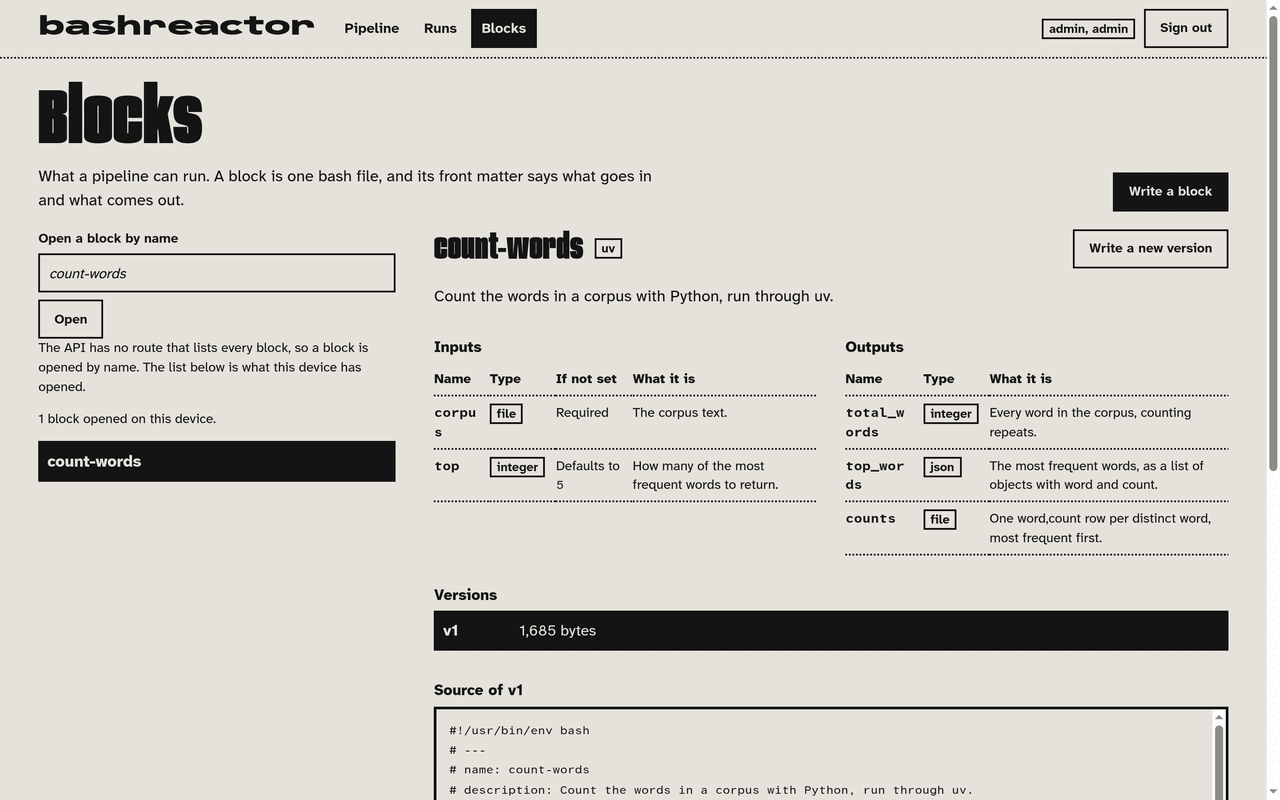
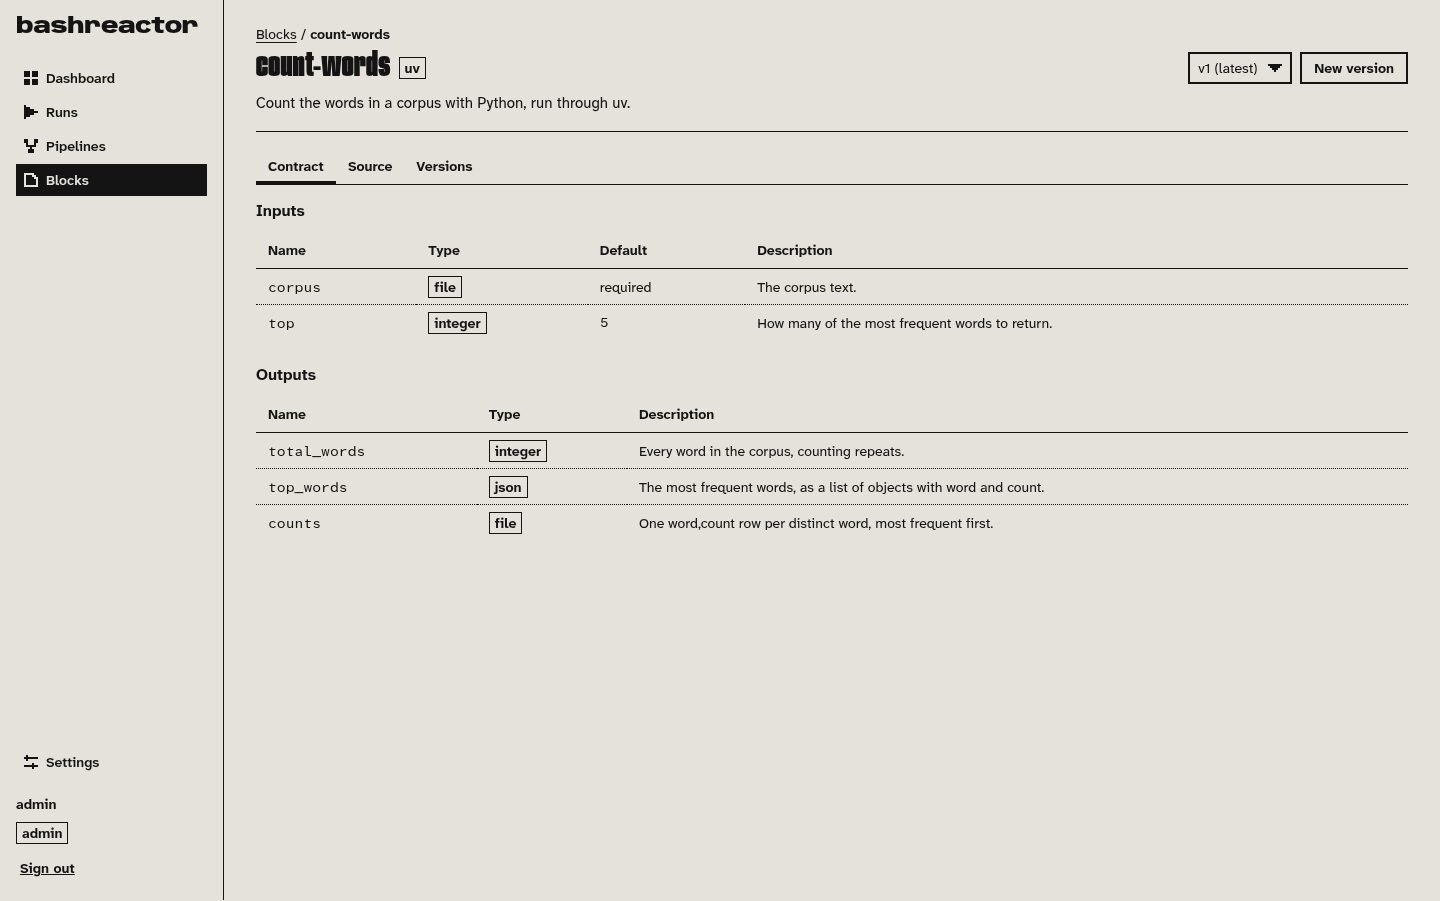
docs: the walk through the new UI, photographed

diff --git a/README.md b/README.md
@@ -28,20 +28,13 @@ same scopes.
 
 ## What it looks like
 
-These are screenshots of the web UI, taken in Chromium against a local server running this repo. The
-pipeline is [`docs/examples/word-report.yaml`](docs/examples/word-report.yaml), the worked example
-[`docs/SPEC.md`](docs/SPEC.md) section 7 is written against, and the two finished runs are the two
-scenarios [`docs/examples/README.md`](docs/examples/README.md) fixes expected results for: the
-defaults, and `lines` 50. That file says a correct run returns a 163 byte report and `total_words`
-1300, [`examples/demo.sh`](examples/demo.sh) checks those numbers on every run, and
-`examples/demo.test.ts` runs that script as part of `bun run check`. So the figures on these screens
-are the ones the tests expect. The run still in flight in the Runs list is the one exception, and its
-caption says so.
-
-Three of them were recaptured at `ee5453c`, after BASHR-13 gave every step status its own stamp
-(`dac64fe`): the two shots of the failed run and the full-page one in *Reading a log*. The rest are
-from the build just before it, and none of them shows a step status that the fix changed:
-`04-run-succeeded.png` is all-succeeded, and the two Runs lists stamp the run, not its steps.
+These are screenshots of the web UI, taken in Chromium against a local server running this repo at
+1440 × 900 and 390 × 844. The data is `apps/web/scripts/seed.ts`: the worked example
+[`docs/examples/word-report.yaml`](docs/examples/word-report.yaml), the pipeline
+[`docs/SPEC.md`](docs/SPEC.md) section 7 is written against, plus the small pipelines the seed adds so
+the lists have every state a screen has to draw. It starts the default run, a run with `lines` 50 that
+fails, one whose `generate` step spends a retry, one cancelled half way, one waiting for its next
+attempt and one still running, so a picture of a live screen is a picture of a real engine working.
 
 ### The gate
 
@@ -54,145 +47,150 @@ agent token from `POST /v1/tokens`, and the scope on that token decides what the
 do. Nothing else is kept on the device, apart from the list of block names you have opened on the
 Blocks screen.
 
-### The entry page
+### Dashboard
 
-![The entry page signed in as admin: what the server reports about itself, and the three screens listed with what each one is for](docs/screenshots/01-entry.png)
+![The Dashboard signed in as admin: four count tiles, the activity chart with all four states in its legend, and the Running now and Failed tables above the disk meter](docs/screenshots/01-dashboard.png)
 
-Once the token is in, the entry page says what this server is and what you may do on it: the version
-and API base it reports, a health line reading `ok`, and whether this token can store pipelines,
-publish blocks and start runs. Below that are the three screens, each with the line that says what it
-is for. The Pipeline editor draws its graph from the YAML instead of keeping a second copy of it. Runs
-is where you watch a run and read its logs by byte offset, with cancel, retry and resume. Blocks is
-the library of bash files, whose front matter says what goes in and what comes out.
+Once the token is in, `/app` is the Dashboard, which replaced the entry page that used to list the
+screens. Four tiles count the window: running, succeeded, failed and cancelled, each a link to the
+Runs list with that filter. Running counts every run that is going now, whatever its age; the other
+three count runs created in the window. The window control says 24 h, 7 d or 30 d, and each is a local
+calendar span — the current local hour or day plus the ones before it, not a rolling duration.
 
-The same page at phone width, a 390 px viewport.
+Activity is one stacked bar per hour or day, with failed, cancelled, running and succeeded stacked from
+the baseline, and a legend that names all four states even when this window has none of one. Below it
+are the two tables that need someone: Running now, which has no Status column because every row is
+running, and Failed, with Retry on each row for a token that can write. Both stop at ten rows and link
+to the filtered list. The disk meter at the bottom is the same disk the Settings screen shows, and the
+alarm above it appears only when `GET /v1/disk` says `low`.
 
-![The entry page at phone width](docs/screenshots/09-mobile-entry.png)
+### Runs: the list, then one run
 
-## The three screens
+![The Runs screen with eight seeded runs, newest first, and the status, pipeline and window filters above them](docs/screenshots/03-runs-list.png)
 
-### Pipeline: write the YAML, run it
+`GET /v1/runs`, newest first: the run id, the pipeline it is a run of, its version, when it started,
+how long it took and how many steps succeeded. The filters — status, pipeline and window — live in the
+address, so a reload, a bookmark and the back button all agree with what is on screen. The subtitle
+states the design: a run is a directory, and this list is its `run.json`.
 
-![The Pipeline screen with an empty editor: New pipeline, Validate, Save version and Start a run above an empty graph pane, with the YAML pane beside it and a Problems panel under that](docs/screenshots/02-pipeline-editor.png)
+![A run still going: nightly-sync, its timeline with transform running, the live log reading 243 B, and Cancel offered instead of Retry](docs/screenshots/06-run-running.png)
 
-The editor holds one pipeline document, and it is the only place in the UI that writes YAML. A new
-document starts with `name`, `description` and an empty `steps:`, and the graph pane stays empty until
-there is a step. The legend under the graph says how the drawing reads: an output feeding an input is
-a wire, a `needs:` entry is a wire with no data on it, and an input port fed by a reference is marked
-differently from one set to a literal value. The buttons are the routes: `Validate` is
-`POST /v1/pipelines/validate`, `Save version` is `POST /v1/pipelines/:name/versions`, `Start a run` is
-`POST /v1/runs`. A stored document is opened by name, because the API has no route that lists every
-pipeline, and the screen says so.
+The same list leads to one run. This one is still going: its header says how long it has been running
+and offers Cancel; the timeline puts every step on a common clock, with `transform` in its dither
+because it is the running one; and the log pane is reading `transform` attempt 1, 243 bytes so far.
+There is no websocket and no callback: both screens poll. The list re-reads `GET /v1/runs` once a
+second while any run on it is `running`, and drops to one read every fifteen seconds (`IDLE_POLL_MS`)
+once none is, because a run started from the CLI or in another tab has to turn up without a reload; a
+run's own page re-reads `GET /v1/runs/:id` on the same beat (`POLL_MS` in
+`apps/web/src/client/run-shared.ts`) until the run is final. Neither reads while the tab is in another
+window, and both say so in the status line when a read fails rather than going quiet on you.
+
+#### The run that worked
+
+![Run detail for the succeeded word-report run: generate took 2 attempts, check, count and report are done, and the report output is 163 bytes](docs/screenshots/04-run-succeeded.png)
+
+`word-report` at its default inputs (`lines` 200, `seed` 7, `title` Word report), finished in 1 s. The
+meta line under the id reads Started, Finished, Duration, Steps and Version, with the exact instant on
+each time. The timeline shows the four steps; `generate` needed two attempts, which is exit 75 spending
+one retry, the first of the hard cases below. The tabs hold the log, the steps, the graph, the run's
+inputs and outputs, and its files. The output `report` is 163 bytes, the same number
+`examples/demo.sh` checks.
+
+#### The run that did not
+
+![Run detail for the failed word-report run: the alarm says check failed with block_fatal, the timeline shows count succeeded and report skipped, and the log holds check's one line](docs/screenshots/05-run-failed.png)
+
+The same pipeline with `lines` 50. The corpus is below `min_lines`, so `check` exits 78 and the run is
+`failed`. The alarm box names the step and the code and offers *Show log* and *Retry 2 steps*. On the
+timeline, `count` is `succeeded` because it needs nothing from `check`, and `report` is `skipped`
+because it does; the log pane has `check` attempt 1, 42 bytes, one line: `check-corpus: 50 lines, need
+at least 100`. The run took less than a second, so its Duration says `<1 s` rather than rounding down to
+a `0 s` that would look like no run at all.
+
+#### Reading a log
+
+The log pane holds one attempt of one step, and its cursor is a byte offset (SPEC 4.8). The pane asks
+for whatever comes after its offset on every poll, and *Pause* stops it asking. *Follow* is about
+keeping up rather than about fetching: it holds the pane at the newest line and moves it to a step's
+newest attempt, and when the step you are watching ends while the run goes on, it moves the pane to the
+step that is running now — watch `one` in a pipeline of `one` and a dependent `two`, and the pane goes
+to `two` the moment `one` succeeds. Turn it off to pin the pane to one step. Because the cursor is an
+offset, an answer only carries what is new, and the page only goes forward: it starts over from byte 0
+when you point the pane at another step or attempt, and otherwise never does. A poll is one `run.json`
+request and at least one log request, and each answer is capped at 1 MiB (`MAX_LOG_TEXT_BYTES` in
+`apps/api/src/app.ts`), so the page asks again in the same poll while the server says there is more.
+What keeps a six-hour run cheap to watch is the server side of that: `readLog` opens the log and reads
+only the window it was asked for, through `readFileRange` in `apps/engine/src/run-store.ts`, whatever
+the offset. On this side the pane keeps every line it has read and paints the last 2000 of them
+(`MAX_DRAWN_LINES` in `apps/web/src/client/logs.ts`), with a note saying how many are not drawn. The
+CLI's `bashreactor runs logs <id> check --offset 42` and the `get_run_log` tool use the same cursor.
+
+### Pipelines: the stored documents
+
+![The Pipelines screen with four stored pipelines, each row showing its description, latest version, last run and a strip of recent runs](docs/screenshots/08-pipelines-list.png)
+
+`GET /v1/pipelines` is the library of stored documents. Each row names the pipeline and reads its
+latest version's description and its recent runs beside the row, four pipelines at a time, so one slow
+pipeline cannot hold up the other nineteen. *New pipeline* opens the editor on a blank document, and a
+row opens the pipeline itself.
+
+![One pipeline: word-report at v1, its duration chart and run table on the Runs tab, with Definition, Versions and Inputs beside it](docs/screenshots/09-pipeline.png)
+
+One pipeline has a header with its description, stored time and short hash, a version picker, and the
+four things you can look at. Runs is a duration chart over its last thirty runs and the shared runs
+table under it; Definition is the stored YAML beside the same graph the editor draws; Versions lists
+every stored version; Inputs is the contract the pipeline declares. A version is in the address, so a
+link can point at exactly the document you meant.
+
+### The editor: write the YAML, run it
+
+![The editor for word-report: YAML with line numbers and problems on the left, the graph on the right, and the step inspector folded to a header](docs/screenshots/02-editor.png)
+
+The editor holds one pipeline document, and it is the only place in the UI that writes YAML. YAML is on
+the left with line numbers and a Problems panel under it; the graph is on the right, with the step
+inspector folded to a header until you expand it. The legend under the graph says how the drawing
+reads: an output feeding an input is a wire, a `needs:` entry is a wire with no data on it, and an
+input port fed by a reference is marked differently from one set to a literal value. Click a step in
+the graph and its block, timeout, attempts and wiring can be edited there, or the caret can follow you
+through the YAML; moving it into a step selects the node.
 
 The Problems panel is one list with two sources: the editor's own checks, run in the browser on every
 keystroke against the block contracts it has fetched from the library, and the issues the API answered
 with the last time you pressed `Validate`. Nothing goes to `POST /v1/pipelines/validate` until you
-press that button, and the API is what refuses to store a pipeline it cannot resolve.
+press that button, and the API is what refuses to store a pipeline it cannot resolve. The buttons are
+the routes: `Validate` is `POST /v1/pipelines/validate`, `Save version` is
+`POST /v1/pipelines/:name/versions`, `Run` opens the inputs dialog and is `POST /v1/runs`.
 
 To see a stored pipeline as the library holds it, use the CLI: `bun apps/cli/src/bin.ts pipelines get
 word-report` prints the document back with `uses: generate-corpus@1` where the file on disk says
 `uses: ./generate-corpus.sh`. The CLI publishes each block beside the file and rewrites the reference,
 which is the first row of the table below.
 
-### Runs: the list, then one run
-
-![The Runs screen with two runs, newest first, one failed and one succeeded](docs/screenshots/03-runs-list.png)
-
-`GET /v1/runs`, newest first: the run id, the pipeline it is a run of, when it started, and its
-status. The subtitle states the design: a run is a directory, and this list is its `run.json`.
-
-![The Runs screen with a run still going, above the failed and succeeded runs](docs/screenshots/08-run-live-list.png)
-
-The same list while a run is in flight, with the newest row reading `running`. That run is not one of
-the two `examples/demo.sh` starts; it was started on its own, with its own inputs. There is no
-websocket and no callback: both screens poll. The list re-reads `GET /v1/runs` once a second for as
-long as any run on it is `running`, and drops to one read every fifteen seconds (`IDLE_POLL_MS`) once
-none is, because a run started from the CLI or in another tab has to turn up without a reload; a run's
-own page re-reads `GET /v1/runs/:id` on the same beat (`POLL_MS` in `apps/web/src/client/runs.ts`)
-until the run is final. Neither reads while the tab is in another window, and both say so in the status
-line when a read fails rather than going quiet on you.
-
-One thing catches out everyone who reads a live run: a step whose first attempt is running reports
-`attempts_used: 0`, in `run.json`, in `GET /v1/runs/:id`, and in the `ATTEMPTS` column of
-`bashreactor runs get <id>`. That is SPEC 4.5 read literally — the count goes up when an attempt
-*ends* `succeeded` or `failed`, and an interrupted or cancelled attempt costs nothing, which is what
-makes a restart cheap. The attempt itself is already there: `attempts` holds it, `running`, with its
-number and its log. The run screen prints the same number, so the note under a live step reads
-*Attempt 0, 1 attempt so far.* (`stepNote` in `apps/web/src/client/runs.ts`).
-
-#### The run that worked
-
-![Run detail for the succeeded run: generate took 2 attempts, check, count and report are done, and the report output is 163 bytes](docs/screenshots/04-run-succeeded.png)
-
-`word-report` at its default inputs (`lines` 200, `seed` 7, `title` Word report), finished in 1 s. The
-step list is in declaration order with a duration and a status per step, and the note under `generate`
-reads *Took 2 attempts*: that is exit 75 spending one retry, the first of the hard cases below. The
-panel on the right is the selected step, `report`: which block it ran and the sha256 of the stored
-bytes, a picker for which attempt's log to read, its outputs (`report` at
-`steps/report/attempts/1/outputs/report`, `report_bytes` 163), and the log pane.
-
-#### The run that did not
-
-![Run detail for the failed run: the alarm box says check failed with block_fatal, generate and count read succeeded and check reads failed, and the report row is cut off at the bottom edge](docs/screenshots/05-run-failed.png)
-
-The same pipeline with `lines` 50. The corpus is below `min_lines`, so `check` exits 78 and the run is
-`failed` after 0 s. The alarm box names the step and the code and offers *Retry from check* and *Read
-its log*. The `check` row reads `1 attempt used`, and the pipeline gives that step two attempts
-(`docs/examples/word-report.yaml`): exit 78 does not spend the rest. `count` needs nothing from
-`check`, so it is `succeeded` as well. This frame is a 1440 x 900 viewport and it runs out part-way
-down the `report` row, so the picture holds that step's name and not its stamp or its note; the
-full-page shot in *Reading a log* below shows both.
-
-The `report` row is the one thing this screen used to get wrong, and it reads `skipped`, the word
-`run.json` holds. `state()` in `apps/web/src/client/runs.ts` used to know four statuses and answer
-every other one with `pending`, so `skipped` and `waiting_retry` both printed as `pending` and the
-screen contradicted the run it was showing. It now stamps every status SPEC 4.4 allows plus
-`interrupted`, each with its own word and its own sign, and keeps `pending` for a status this UI has
-never seen: that word claims nothing about the outcome and is not final, so it cannot call a live run
-finished. `apps/web/src/client/runs.test.ts` stamps all eight of them and one the spec has never heard
-of, and checks the word and the shape each time. The note under `report`, *check failed, so this never
-started.*, is the half that was never wrong.
-
-![The same failed run at phone width: the run head, the inputs and the alarm box, with the step list beginning below them](docs/screenshots/11-mobile-run.png)
-
-The same failed run at phone width, a 390 px viewport. Below 980 px the step list and the log panel
-stack into one column (`@media (max-width: 980px)` in `apps/web/src/client/style.css`), and the stack
-is taller than the phone: this frame ends inside the first step row, so the alarm box is the last
-thing it shows whole, and `report`, with its `skipped` stamp, is one scroll away.
-
-#### Reading a log
-
-![The whole failed run screen at desktop width: the step list with report stamped skipped, and beside it the log panel for the failed check step, read to byte 42 with its one line of output](docs/screenshots/14-run-log.png)
-
-The log pane holds one attempt of one step, and its cursor is a byte offset (SPEC 4.8). This pane has
-*Read to byte 42*, which is all of `check` attempt 1: one line, `check-corpus: 50 lines, need at least
-100`. The pane asks for whatever comes after its offset on every poll, and *Pause* stops it asking.
-*Follow* is about keeping up rather than about fetching: it holds the pane at the newest line and moves
-it to a step's newest attempt, and when the step you are watching ends while the run goes on, it moves
-the pane to the step that is running now — watch `one` in a pipeline of `one` and a dependent `two`,
-and the pane goes to `two` the moment `one` succeeds. Turn it off to pin the pane to one step. Because the cursor is an offset, an answer only carries what is new, and
-the page only goes forward: it starts over from byte 0 when you point the pane at another step or
-attempt, and otherwise never does. A poll is one `run.json` request and at least one log request, and
-each answer is capped at 1 MiB (`MAX_LOG_TEXT_BYTES` in `apps/api/src/app.ts`), so the page asks again
-in the same poll while the server says there is more. What keeps a six-hour run cheap to watch is the
-server side of that: `readLog` opens the log and reads only the window it was asked for, through
-`readFileRange` in `apps/engine/src/run-store.ts`, whatever the offset. On this side the pane keeps
-every line it has read and paints the last 2000 of them (`MAX_DRAWN_LINES` in
-`apps/web/src/client/logs.ts`), with a note saying how many are not drawn. The CLI's
-`bashreactor runs logs <id> check --offset 42` and the `get_run_log` tool use the same cursor. The
-note on the `check` row gives the other half of why
-a failure is not a dead end: `1 attempt used; the work directory is kept`.
-
 ### Blocks: the library
 
 ![The Blocks screen showing count-words v1: its inputs and outputs tables and the bash source with its front matter](docs/screenshots/07-block-detail.png)
 
-`GET /v1/blocks/:name`, with the version you are looking at and its size in bytes. The two tables are
-the block's own front matter read out of the stored bytes: `corpus` (file, required) and `top`
-(integer, default 5) going in; `total_words`, `top_words` and `counts` coming out. Under them is the
-source with the header still attached, so the contract and the code that honours it are on one screen.
-Like pipelines, a block is opened by name, and for the same reason. The short list of names on that
-screen is this browser's history of blocks you have opened, kept in `localStorage`.
+`GET /v1/blocks/:name`, with the version you are looking at and its size in bytes. The contract tab has
+the two tables that are the block's own front matter read out of the stored bytes: `corpus` (file,
+required) and `top` (integer, default 5) going in; `total_words`, `top_words` and `counts` coming out.
+The source tab is the file with its header still attached, so the contract and the code that honours it
+are on one screen, and the versions tab lists everything the library has stored for the name. Like
+pipelines, a block is opened by name, and for the same reason.
+
+### On a phone
+
+![The Dashboard at phone width: two count tiles per row, the chart, and the two run tables stacked into one block per row](docs/screenshots/10-mobile-dashboard.png)
+
+At 390 px the sidebar becomes a top bar, the counts go two by two, and every table becomes one block
+per row: the first cell on top, then a label and value for each remaining cell. Nothing scrolls
+sideways. The Dashboard is the same information as at desktop width, read down the page instead of
+across it.
+
+![The same failed run at phone width: the run head, its inputs and alarm box, with the timeline and tabs below them](docs/screenshots/11-mobile-run.png)
+
+A run at the same width. The header, the alarm and the log stay one column, and the timeline keeps its
+own scroll rather than widening the page. The design targets a 1280 to 1440 px desktop; the phone is
+the same screen, not a second one.
 
 ## One run, four surfaces
 
